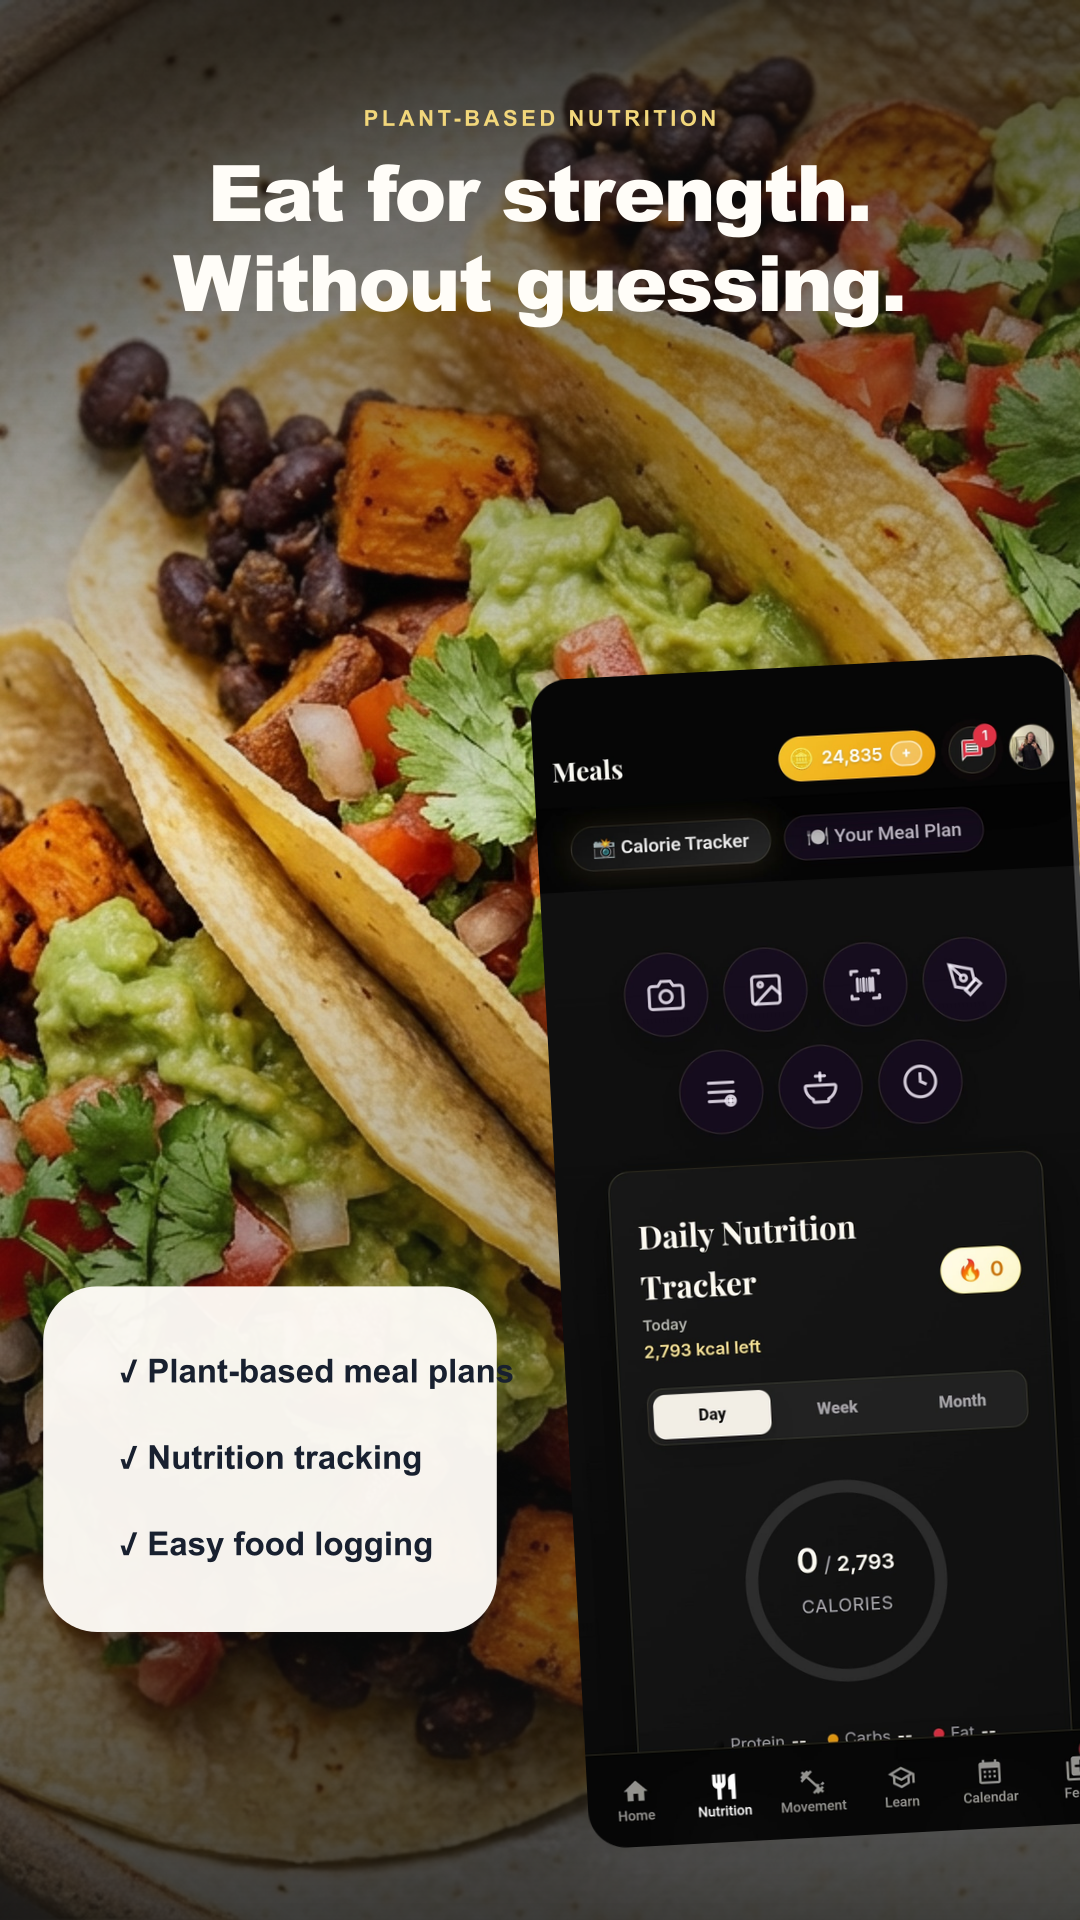
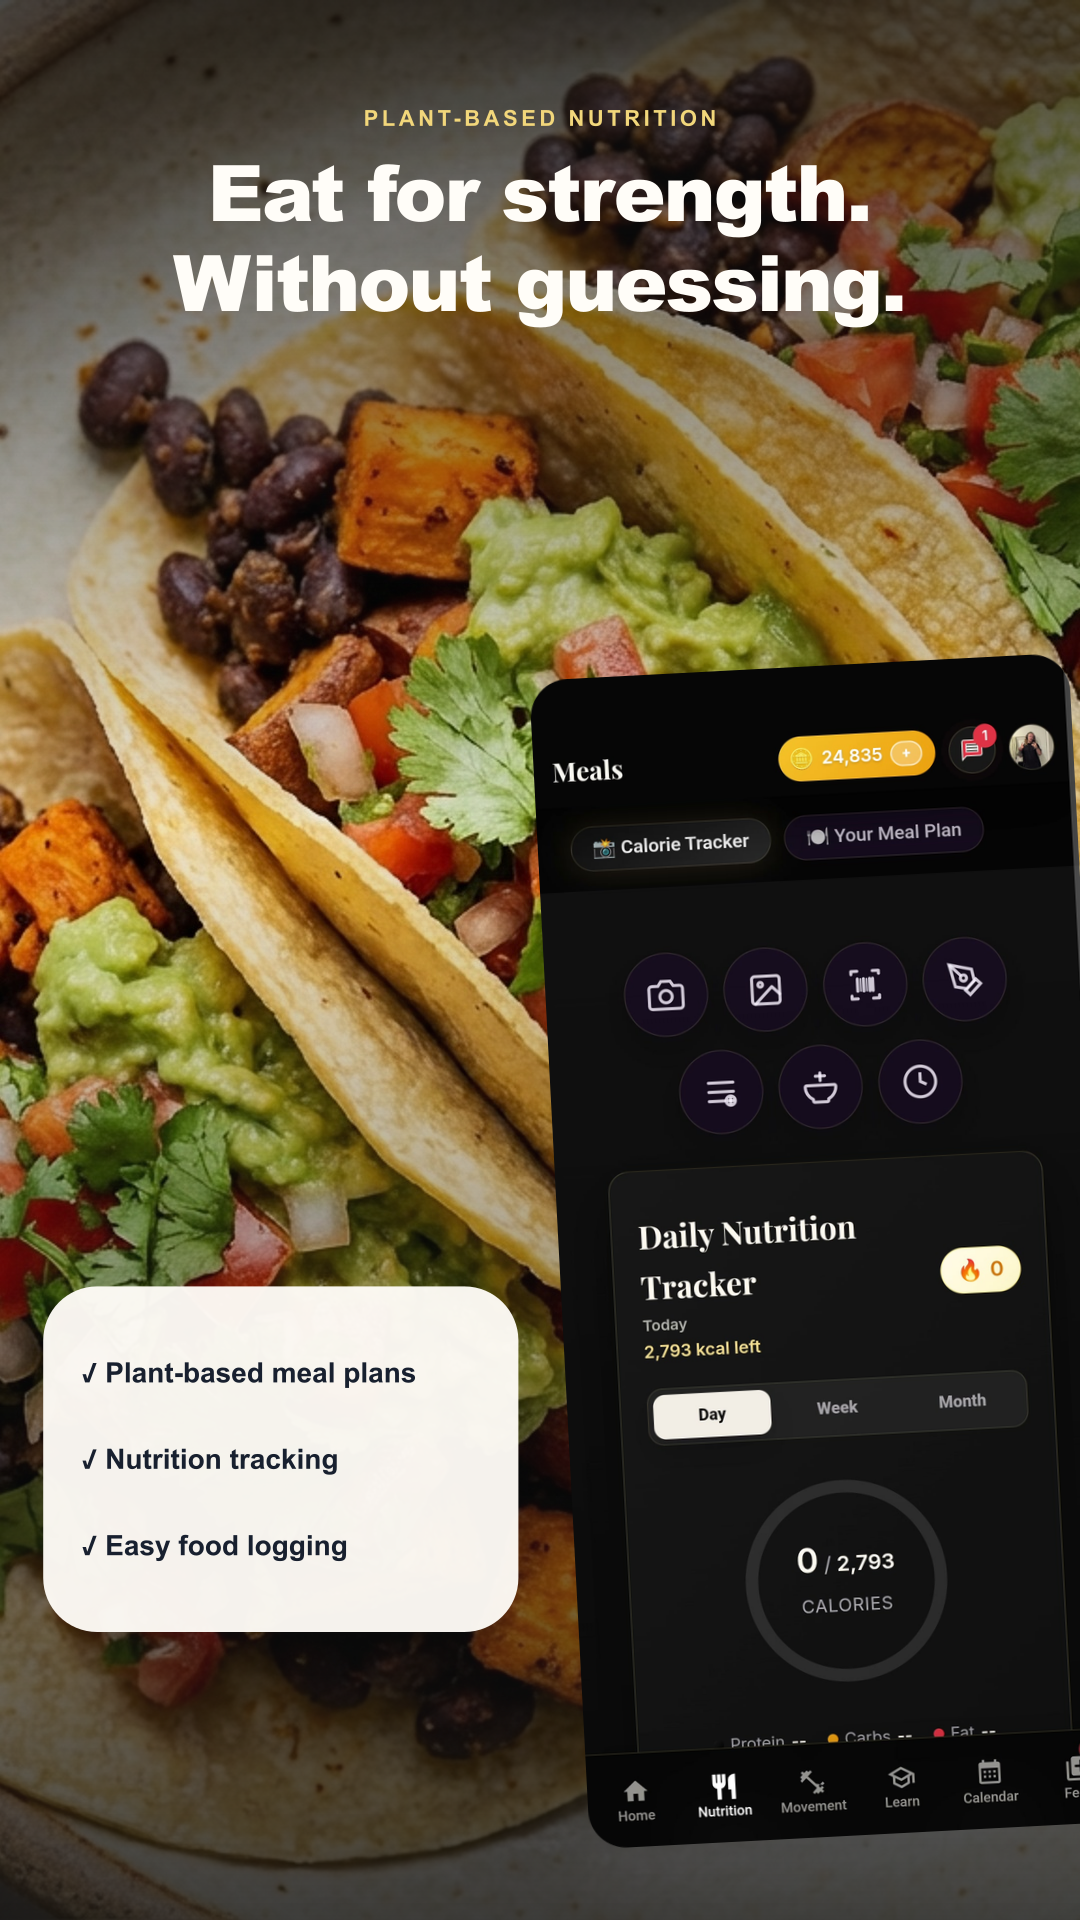
Fix store meal card text fit

Changed region(s): [[0.0917, 0.6562, 0.4889, 0.875], [0.0917, 0.75, 0.3972, 0.8125]]

diff --git a/tests/store-listing-brand.test.js b/tests/store-listing-brand.test.js
@@ -76,6 +76,9 @@ test('store visual generator keeps listing callouts readable and authentic', () 
     assert.doesNotMatch(generator, /\{ slug: 'founders-pass'/);
     assert.match(generator, /PLANT-BASED NUTRITION/);
     assert.match(generator, /Plant-based meal plans/);
+    assert.match(generator, /const calloutWidth = spec\.width \* 0\.44/);
+    assert.match(generator, /const calloutTextX = spec\.width \* 0\.075/);
+    assert.match(generator, /const calloutFontSize = Math\.round\(spec\.width \* 0\.026\)/);
     assert.doesNotMatch(generator, />[^<]*vegan[^<]*<\/text>/i);
     assert.match(generator, /community-meal-win\.jpg/);
     assert.match(generator, /community-milestone-win\.jpg/);
